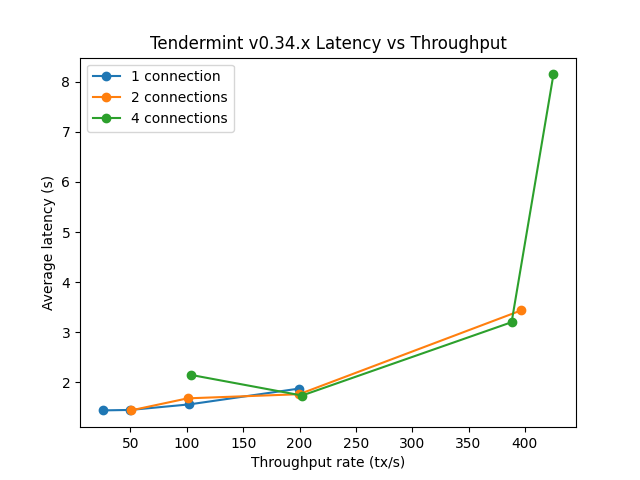
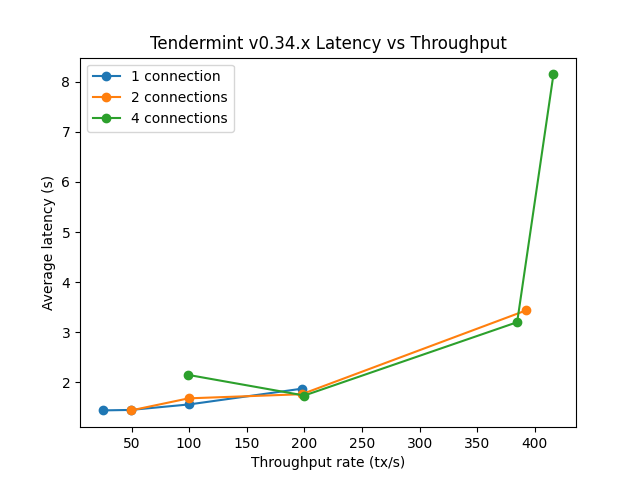
Adjust experiment start time to be more accurate and re-plot latency vs throughput

diff --git a/scripts/qa/reporting/latency_throughput.py b/scripts/qa/reporting/latency_throughput.py
@@ -94,6 +94,9 @@ def process_tx(experiments, tx):
             'connections': connections,
             'rate': rate,
             'block_time_min': block_time,
+            # We keep track of the latency associated with the minimum block
+            # time to estimate the start time of the experiment
+            'block_time_min_duration': duration,
             'block_time_max': block_time,
             'total_latencies': duration,
             'tx_count': 1,
@@ -112,6 +115,7 @@ def process_tx(experiments, tx):
 
         if block_time < experiments[exp_id]['block_time_min']:
             experiments[exp_id]['block_time_min'] = block_time
+            experiments[exp_id]['block_time_min_duration'] = duration
         if block_time > experiments[exp_id]['block_time_max']:
             experiments[exp_id]['block_time_max'] = block_time
 
@@ -130,8 +134,9 @@ def compute_experiments_stats(experiments):
     for exp_id, exp in experiments.items():
         conns = exp['connections']
         avg_latency = exp['total_latencies'] / exp['tx_count']
-        throughput_rate = exp['tx_count'] / (exp['block_time_max'] -
-                                             exp['block_time_min'])
+        exp_start_time = exp['block_time_min'] - exp['block_time_min_duration']
+        exp_duration = exp['block_time_max'] - exp_start_time
+        throughput_rate = exp['tx_count'] / exp_duration
         if conns not in stats:
             stats[conns] = []
 
